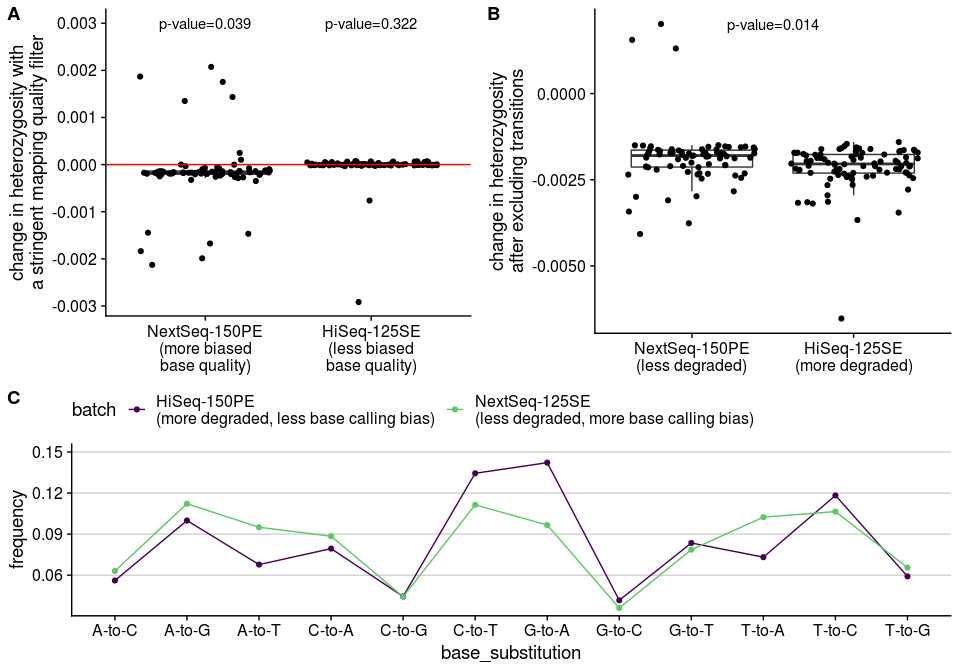
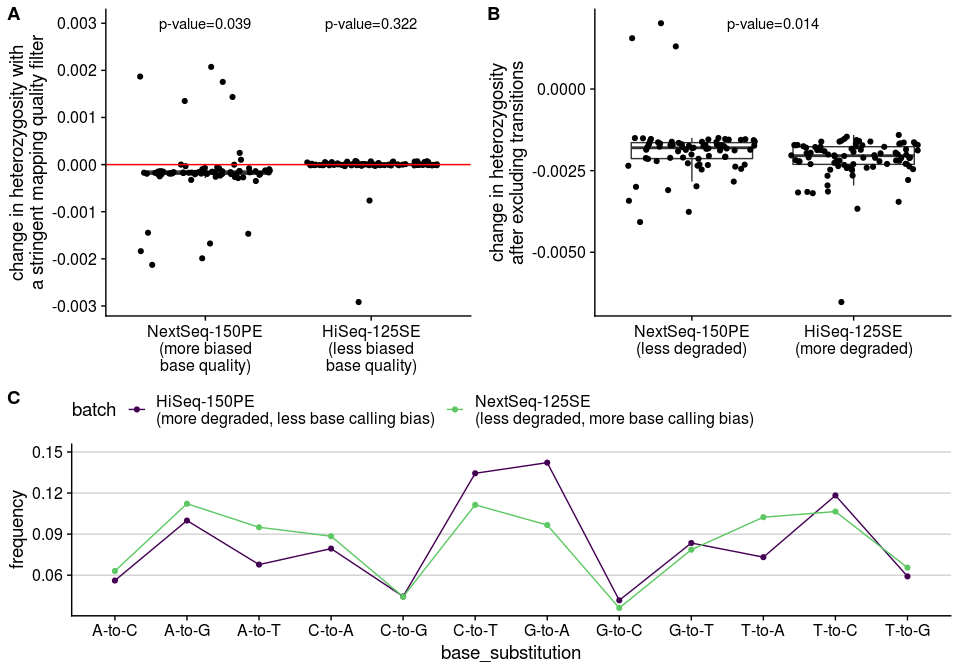
minor update

diff --git a/markdown/sfs.md b/markdown/sfs.md
@@ -165,7 +165,7 @@ p_b <- delta_het %>%
   geom_boxplot(outlier.alpha = 0) +
   geom_jitter(height = 0) +
   annotate(geom = "text", label="p-value=0.014", x=1.5, y=0.002) +
-  scale_x_discrete(labels=c("NextSeq-150PE\n(less degraded)", "HiSeq-125SE\n(more degraded)")) +
+  scale_x_discrete(labels=c("NextSeq-150PE\n(less degraded)\n", "HiSeq-125SE\n(more degraded)\n")) +
   ylab("change in heterozygosity\nafter excluding transitions") +
   theme_cowplot() +
   theme(axis.title.x = element_blank())
